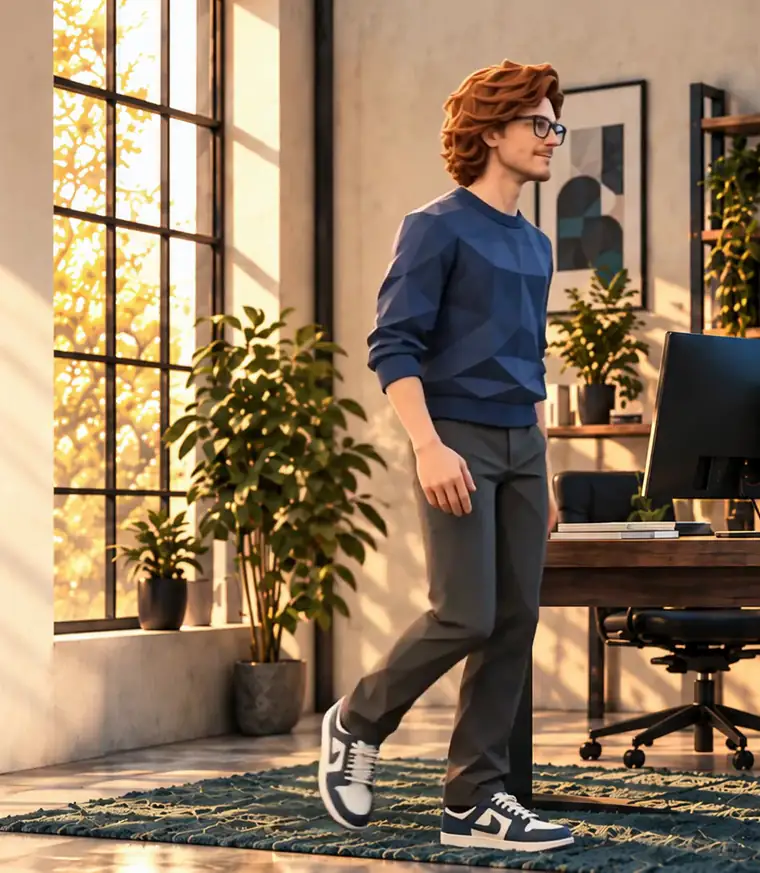
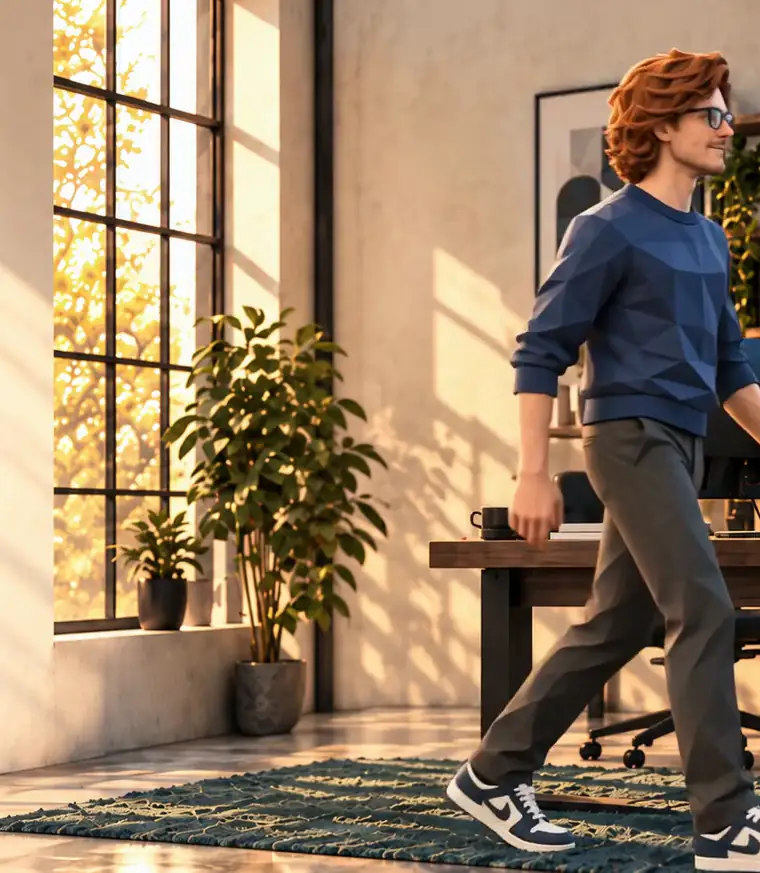
Hold the phone walk-out half a second longer before unpinning
A flick on a phone easily carries past the pinned walk, so phones now
unpin at 2.6 s over a 42svh runway, keeping the pace. The frame set is
regenerated so the extra half second stays at 20 fps: p00–p52 through
2.6 s, x01–x12 through the exit, 65 frames, 3.6 MB.

Changed region(s): [[0.3934, 0.0309, 1.0, 1.0], [0.7868, 0.8969, 0.8171, 0.9278], [0.4539, 0.9897, 0.4842, 1.0]]

diff --git a/components/character/CharacterSections.tsx b/components/character/CharacterSections.tsx
@@ -10,13 +10,13 @@ import { useCharacterMotion } from "./CharacterShell"
 /** Phones scrub a pre-rendered frame set on a canvas instead of seeking the video: a video seek decodes up to a
  *  keyframe interval of frames before it can show one, which is what made touch scrolling feel choppy, while a
  *  canvas draw is instant at any scroll speed. The frames are the phone's crop of the same clip (public/character/
- *  scrub): 20 fps through the pinned walk (p00–p42, 0 … 2.1 s), 12 fps through the exit (x01–x18, … 3.6 s).
+ *  scrub): 20 fps through the pinned walk (p00–p52, 0 … 2.6 s), 12 fps through the exit (x01–x12, … 3.6 s).
  *  Each frame is the 940 px wide slice of the 1920×1080 clip starting at x = 650, scaled to 760 px wide, which
  *  covers the cover-fit window of every phone size at the poster's focal point (62% 38%). */
 const CLIP_W = 1920, CLIP_H = 1080, CROP_X = 650, CROP_W = 940
 const PHONE_FRAMES: { src: string; t: number }[] = []
-for (let i = 0; i <= 42; i++) PHONE_FRAMES.push({ src: `/character/scrub/p${String(i).padStart(2, '0')}.webp`, t: i / 20 })
-for (let j = 1; j <= 18; j++) PHONE_FRAMES.push({ src: `/character/scrub/x${String(j).padStart(2, '0')}.webp`, t: 2.1 + j / 12 })
+for (let i = 0; i <= 52; i++) PHONE_FRAMES.push({ src: `/character/scrub/p${String(i).padStart(2, '0')}.webp`, t: i / 20 })
+for (let j = 1; j <= 12; j++) PHONE_FRAMES.push({ src: `/character/scrub/x${String(j).padStart(2, '0')}.webp`, t: 2.6 + j / 12 })
 const PHONE_LAST = PHONE_FRAMES[PHONE_FRAMES.length - 1].t
 /** Frames that must be decoded before the scrub counts as ready (the curtain waits for this). */
 const PHONE_READY_AFTER = 10
@@ -180,9 +180,9 @@ export function Wisps({children}: {children: React.ReactNode}) {
   return <div className="flow"><svg ref={ref} className="wisp wisp-one" viewBox="0 0 240 1000" fill="none" aria-hidden="true"><path d="M180 -20C-100 180 330 270 110 480S-20 780 190 1020"/><path d="M194 -20C-70 180 345 270 126 480S-2 780 204 1020"/></svg>{children}</div>
 }
 export const career = [
-  {period:'2021 – Present',title:'Engineer',org:'Tall Karol · previously Integration Engineer, Universal Windows Direct',body:'Independent since 2023: serverless AWS applications, production analytics platforms, and headless WordPress rebuilds. Before that, expanded a centralized integration API connecting Five9, CRM, Mailchimp, and internal platforms.'},
-  {period:'2019 – 2021',title:'Marketing Director',org:'Perfect Power Wash',body:'Owned strategy and the technology stack through an expansion from one market to four. Built the first data warehouse and internal tools, then hired and trained a developer.'},
-  {period:'2012 – 2019',title:'Founder',org:'in2itiv media · CUBE Karaoke · Garcia L8r · Modular Studios',body:'Started and ran my own ventures, with client sites, web applications, and photography built alongside them.'},
+  {period:'2021 – Present',title:'Engineer',org:'Tall Karol · previously Integration Engineer, Universal Windows Direct',body:'AWS applications, analytics platforms, and integration architecture.'},
+  {period:'2019 – 2021',title:'Marketing Director',org:'Perfect Power Wash',body:'Owned strategy and the tech stack through an expansion from one market to four.'},
+  {period:'2012 – 2019',title:'Founder',org:'in2itiv media · CUBE Karaoke · Garcia L8r · Modular Studios',body:'My own ventures, with client work alongside.'},
 ]
 export function Experience({full=false}: {full?:boolean}) {
   return <section className="experience section" id="experience"><div className="section-intro"><p className="eyebrow">The experience behind the work</p><h2>{full ? <>I’ve worked on<br/>both sides of the brief.</> : <>An engineer with<br/>business context.</>}</h2><p className="lead">I’ve owned the budget, the brief,<br/>and the code that had to deliver.</p><p>Before moving into engineering full-time, I led marketing and its technology stack. That experience still shapes my work: understand how the team operates, make the trade-offs explicit, and build something they can rely on.</p><Link className="text-link" href="/resume">Explore my full résumé ↗</Link></div><div className="experience-rows">{career.slice(0,full?4:3).map(job=><article key={job.period}><span className="career-date">{job.period}</span><div><h3>{job.title}</h3><p className="career-org">{job.org}</p><p>{job.body}</p></div></article>)}</div></section>

diff --git a/components/character/character.css b/components/character/character.css
@@ -69,7 +69,7 @@
 .character-site .hero-video.is-ready{width:100%;height:100%;opacity:1}
 .character-site .hero-canvas{display:block}/* phones: the frame scrubber; it shares the .hero-video box rules and draws its own cover-fit */
 @media(max-width:700px){
- .character-site .hero-scroll.is-scrubbing{--scrub-end:2.1;height:calc(max(640px,100svh) + 34svh)}
+ .character-site .hero-scroll.is-scrubbing{--scrub-end:2.6;height:calc(max(640px,100svh) + 42svh)}
  .character-site .hero-scroll.is-scrubbing .hero{height:100svh;min-height:640px;top:min(0px,calc(100svh - 640px))}
  .character-site .hero-video{object-position:62% 38%;z-index:-2}
  .character-site .hero-video.is-ready{height:70%}
